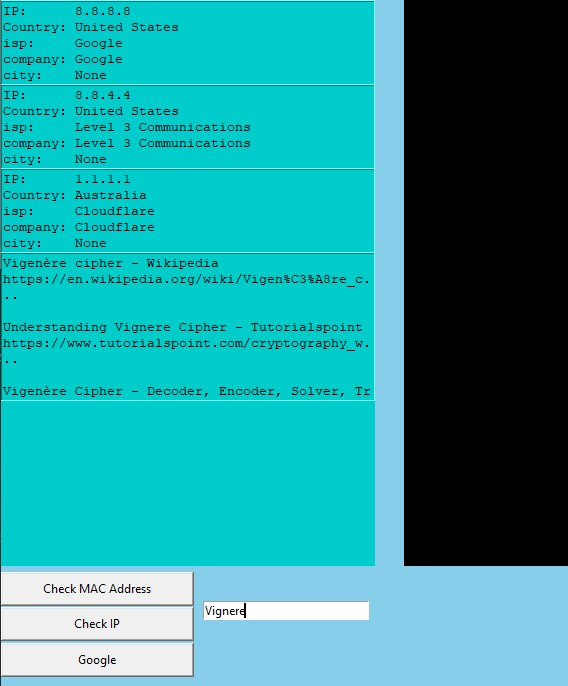
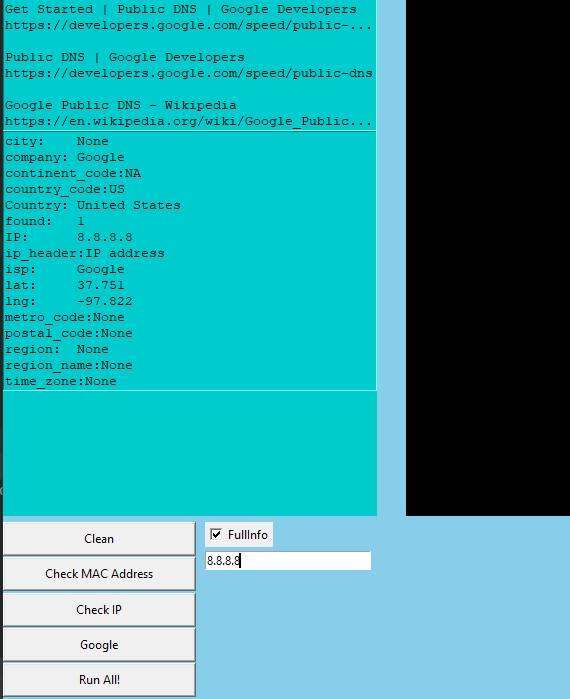
Fixing imports path, Changing picture and adding another module named weather

Changed region(s): [[0.0, 0.0, 1.0, 1.0]]

diff --git a/assistant/modules/basic_reconnaissance.py b/assistant/modules/basic_reconnaissance.py
@@ -1,10 +1,10 @@
-import json
 import tkinter as tk
-import sys; sys.path.append("..")
+import json
 
 import requests
 from bs4 import BeautifulSoup
 
+import _set_path
 from assitant import Assitant
 from basic_reconnaissance_files.IP import IP
 
@@ -15,12 +15,31 @@ class BasicReconnaissance(Assitant):
     GOOGLE_URL = "https://www.google.com/search?q={term}"
     GOOGLE_MAX_RESULTS = 3
 
+    def __init__(self):
+        Assitant.__init__(self)
+        self.TEXT_OBJECTS = []
+        self.check_box_value = tk.IntVar()
+
     def start(self):
+        self.add_button("Clean", self.clean_text)
         self.add_button("Check MAC Address", self.mac_search)
         self.add_button("Check IP", self.ip_search)
         self.add_button("Google", self.google_search)
+        self.add_button("Run All!", self.run_everything)
+
+        tk.Checkbutton(self.root, text="FullInfo", variable=self.check_box_value).place(relx=0.35, rely=0.805)
 
         self.root.mainloop()
+
+    def clean_text(self):
+        for text_obj in self.TEXT_OBJECTS:
+            text_obj.destroy()
+        self.TEXT_OBJECTS = []
+
+    def run_everything(self):
+        self.mac_search()
+        self.ip_search()
+        self.google_search()
 
     def mac_search(self):
         mac_addresses = self.extract_values(self.get_values(), key="mac")
@@ -31,7 +50,7 @@ class BasicReconnaissance(Assitant):
                 if text:
                     text += "\n"
 
-                page = requests.get(BasicReconnaissance.MAC_URL.format(mac=mac), headers=Assitant.NORMAL_REQUEST_HEADERS)
+                page = requests.get(self.MAC_URL.format(mac=mac), headers=Assitant.NORMAL_REQUEST_HEADERS)
                 if page.status_code != Assitant.HTTP_OK:
                     self.show_error(f"Response error ({page.status_code})")
                     continue
@@ -39,9 +58,7 @@ class BasicReconnaissance(Assitant):
                 vendor = page.text
                 text += f"{mac}\n{vendor}\n"
 
-            text_obj = tk.Text(self.main_frame, height=text.count("\n"), width=200, bg="#00ccce")
-            text_obj.insert(tk.INSERT, text)
-            text_obj.pack()
+            self.TEXT_OBJECTS.append(self.add_text_to_main_frame(text, text.count("\n")))
 
     def ip_search(self):
         ip_addresses = self.extract_values(self.get_values(), key="ip")
@@ -53,7 +70,7 @@ class BasicReconnaissance(Assitant):
                     text += "\n"
 
                 payload = {"ip": ip}
-                page = requests.post(BasicReconnaissance.IP_URL, headers=Assitant.NORMAL_REQUEST_HEADERS, data=payload)
+                page = requests.post(self.IP_URL, headers=Assitant.NORMAL_REQUEST_HEADERS, data=payload)
                 if page.status_code != Assitant.HTTP_OK:
                     self.show_error(f"Response error ({page.status_code})")
                     continue
@@ -65,22 +82,22 @@ class BasicReconnaissance(Assitant):
                     continue
 
                 ip = IP(response_data)
-                text += ip.summary()
+                text += ip.summary(level=self.check_box_value.get())
 
-            text_obj = tk.Text(self.main_frame, height=text.count("\n"), width=200, bg="#00cccc")
-            text_obj.insert(tk.INSERT, text)
-            text_obj.pack()
+            self.TEXT_OBJECTS.append(self.add_text_to_main_frame(text, text.count("\n")))
 
     def google_search(self):
+        max_title_length = 46
+
         term = self.get_values()
 
-        page = requests.get(BasicReconnaissance.GOOGLE_URL.format(term=term), headers=Assitant.NORMAL_REQUEST_HEADERS)
+        page = requests.get(self.GOOGLE_URL.format(term=term), headers=Assitant.NORMAL_REQUEST_HEADERS)
         if page.status_code != Assitant.HTTP_OK:
             self.show_error(f"Response error ({page.status_code})")
             return
 
         soup = BeautifulSoup(page.content, 'lxml')
-        results = soup.find_all('div', class_='r')[:BasicReconnaissance.GOOGLE_MAX_RESULTS]
+        results = soup.find_all('div', class_='r')[:self.GOOGLE_MAX_RESULTS]
 
         text = ""
         additional_nl = 0
@@ -89,19 +106,17 @@ class BasicReconnaissance(Assitant):
                 text += "\n"
 
             title = result.find('h3', class_="LC20lb DKV0Md").text
-            if len(title) > 48:
+            if len(title) > max_title_length:
                 additional_nl += 1
 
             text += f"{title}\n"
 
             href = result.find('a').get('href')
-            if len(href) > 48:
-                href = href[:45] + "..."
+            if len(href) > max_title_length:
+                href = href[:max_title_length - 3] + "..."
             text += f"{href}\n"
 
-        text_obj = tk.Text(self.main_frame, height=text.count("\n") + additional_nl, width=200, bg="#00ccca")
-        text_obj.insert(tk.INSERT, text)
-        text_obj.pack()
+        self.TEXT_OBJECTS.append(self.add_text_to_main_frame(text, text.count("\n") + additional_nl))
 
 
 def main():

diff --git a/assistant/modules/weather.py b/assistant/modules/weather.py
@@ -1,0 +1,52 @@
+
+import requests
+from bs4 import BeautifulSoup
+
+import _set_path
+from assitant import Assitant
+
+
+class Weather(Assitant):
+    WEATHER_URL_HAIFA = "https://www.accuweather.com/en/il/haifa/213181/weather-forecast/213181"
+
+    def __init__(self):
+        Assitant.__init__(self)
+        self.TEXT_OBJECTS = []
+
+    def start(self):
+        self.add_button("Clean", self.clean_text)
+        self.add_button("Current Weather", self.weather_right_now)
+
+        self.root.mainloop()
+
+    def clean_text(self):
+        for text_obj in self.TEXT_OBJECTS:
+            text_obj.destroy()
+        self.TEXT_OBJECTS = []
+
+    def weather_right_now(self):
+        page = requests.get(self.WEATHER_URL_HAIFA, headers=Assitant.NORMAL_REQUEST_HEADERS)
+        if page.status_code != Assitant.HTTP_OK:
+            self.show_error(f"Response error ({page.status_code})")
+            return
+
+        try:
+            soup = BeautifulSoup(page.content, 'lxml')
+            today_block = soup.find('div', class_='day-panel')
+            temp = today_block.find('span', class_='high').text.strip("\t\n")
+            desc = today_block.find('div', class_='cond').text.strip()
+        except AttributeError:
+            self.show_error("Error encountered when parsing the page content.")
+            return
+
+        text = f"Temperature: {temp}\n{desc}\n"
+        self.TEXT_OBJECTS.append(self.add_text_to_main_frame(text, text.count("\n")))
+
+
+def main():
+    obj = Weather()
+    obj.start()
+
+
+if __name__ == "__main__":
+    main()

diff --git a/assistant/assitant.py b/assistant/assitant.py
@@ -8,12 +8,14 @@ import clipboard
 class Assitant:
     WINDOW_WIDTH = 576
     TITLE = "Desktop Assitant"
+    ERRORS_ALIVE_TIME = 15000
+    TEXT_BG_COLOR = "#00ccce"
+
     IP_REGEX = r"(?:\d{1,3}\.){3}\d{1,3}"
     MAC_REGEX = r"(?:[0-9A-Fa-f]{2}[:-]){5}(?:[0-9A-Fa-f]{2})"
-    NORMAL_REQUEST_HEADERS = {'User-Agent': "Mozilla/5.0 (Windows NT 10.0; Win64; x64) AppleWebKit/537.36 (KHTML, like\
-                                             Gecko) Chrome/80.0.3987.163 Safari/537.36"}
+    NORMAL_REQUEST_HEADERS = {'User-Agent': "Mozilla/5.0 (Windows NT 10.0; Win64; x64) AppleWebKit/537.36 (KHTML, like \
+Gecko) Chrome/80.0.3987.163 Safari/537.36"}
     HTTP_OK = 200
-    ERRORS_ALIVE_TIME = 15000
 
     def __init__(self):
         self.screen_size = None
@@ -123,3 +125,8 @@ class Assitant:
         btn = tk.Button(self.root, text=text, padx=5, pady=5, command=func, width=width)
         btn.place(relx=relx, rely=rely)
 
+    def add_text_to_main_frame(self, text, height, bg=TEXT_BG_COLOR):
+        text_obj = tk.Text(self.main_frame, height=height, width=200, bg=bg)
+        text_obj.insert(tk.INSERT, text)
+        text_obj.pack()
+        return text_obj

diff --git a/assistant/modules/basic_reconnaissance_files/IP.py b/assistant/modules/basic_reconnaissance_files/IP.py
@@ -3,11 +3,12 @@ class IP:
         for key, value in ip_data.items():
             setattr(self, key, value)
 
-    def summary(self, level="Minimal"):
-        if level == "Minimal":
-            attributes = ["ip", "country_name", "isp", "company", "city"]
+    def summary(self, level=0):
+        if level == 1:
+            # All attributes
+            attributes = self.__dict__.keys()
         else:
-            attributes = []
+            attributes = ["ip", "country_name", "isp", "company", "city"]
 
         text = ""
         for attribute in attributes:

diff --git a/assistant/modules/_set_path.py b/assistant/modules/_set_path.py
@@ -1,0 +1,4 @@
+import sys
+import os
+
+sys.path.append(os.path.dirname(os.path.dirname(os.path.realpath(__file__))))

diff --git a/assistant/modules/example.py b/assistant/modules/example.py
@@ -1,4 +1,5 @@
-import sys; sys.path.append("..")
+
+import _set_path
 
 from assitant import Assitant
 

diff --git a/README.md b/README.md
@@ -6,7 +6,7 @@ and enjoyable.
 ## Features
 
 - Data processing and requests making.  
-- Auto detection of marked text and clipboard content for further actions.
+- Auto detection of text box input and clipboard content for further actions.
 - The ability to add functions and actions to the app.
 
 ## Usage
@@ -15,7 +15,6 @@ and enjoyable.
 git clone https://github.com/ohaval/desktop-assitant.git
 cd desktop-assitant/
 pip install -r requirements.txt
-cd assistant/modules/
 ```
 
 Create a module file and add your own functions and design, for the Tkinter GUI app to the module file, 
@@ -24,17 +23,21 @@ and then run your module file:
 ```
 python <Your module file>
 ```
-Or you can run my written modules from the modules directory. For example:
+Or you can run my written modules. For example:
 ```
-python websites_interaction.py
+python assitant\modules\basic_reconnaissance.py
 ```
 
 ## Future Work:
-- Fix the tkinter gui design so it can work on every monitor.
+- Fix the tkinter gui design so it can work on most monitors.
 - Try pyqt5
 - Make a cleaner and quicker code, and deal with errors.
 
-A Picture from the app:
+### A Picture from the app:
 
 ![Image](../master/pic_from_the_app.jpg?raw=true)
 
+
+The app was tested on monitors with display resolutions of:
+* 1920x1200
+* 1920*1080
